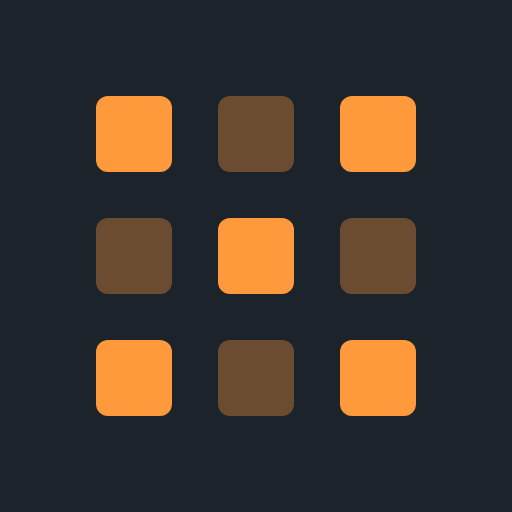
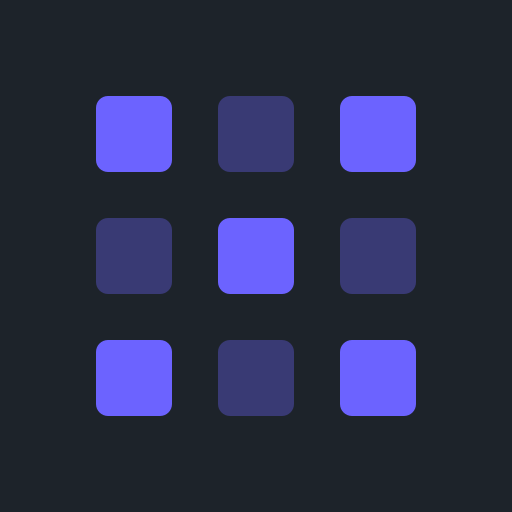
Add files via upload

diff --git a/index.html b/index.html
@@ -1,4 +1,38 @@
-<!doctype html><html lang="en"><head><meta charset="utf-8"><meta name="viewport" content="width=device-width,initial-scale=1"></head><body>
+<!doctype html>
+<html lang="en">
+<head>
+<meta charset="utf-8">
+<meta name="viewport" content="width=device-width,initial-scale=1">
+<title>thebeatsynth</title>
+<meta name="description" content="Make beats in your browser. Multiple channels, custom time signatures, imported audio and pre-loaded drum/piano sounds. Pads, piano roll, mixer, export.">
+<meta name="theme-color" content="#1d232a">
+
+<link rel="icon" href="icon.svg" type="image/svg+xml">
+<link rel="icon" href="icon-192.png" type="image/png" sizes="192x192">
+<link rel="apple-touch-icon" href="icon-180.png">
+<link rel="manifest" href="manifest.webmanifest">
+<meta name="apple-mobile-web-app-capable" content="yes">
+<meta name="apple-mobile-web-app-status-bar-style" content="black-translucent">
+<meta name="apple-mobile-web-app-title" content="thebeatsynth">
+
+<meta property="og:type" content="website">
+<meta property="og:site_name" content="thebeatsynth">
+<meta property="og:title" content="thebeatsynth — make beats in your browser">
+<meta property="og:description" content="Multiple channels, custom time signatures, imported audio and pre-loaded drum/piano sounds. Pads, piano roll, mixer, export.">
+<meta property="og:url" content="https://thebeatsynth.com/">
+<meta property="og:image" content="https://thebeatsynth.com/og.png">
+<meta property="og:image:width" content="1200">
+<meta property="og:image:height" content="630">
+
+<meta name="twitter:card" content="summary_large_image">
+<meta name="twitter:title" content="thebeatsynth — make beats in your browser">
+<meta name="twitter:description" content="Multiple channels, custom time signatures, imported audio and pre-loaded drum/piano sounds. Pads, piano roll, mixer, export.">
+<meta name="twitter:image" content="https://thebeatsynth.com/og.png">
+
+<script>window.va = window.va || function () { (window.vaq = window.vaq || []).push(arguments); };</script>
+<script defer src="/_vercel/insights/script.js"></script>
+</head>
+<body>
 <title>thebeatsynth</title>
 <meta name="claude:viewport-fit-sides" content="cover">
 <style>@font-face{font-family:'JetBrains Mono';font-style:normal;font-weight:500;font-display:swap;src:url(fonts/jetbrains-mono-latin-500-normal.woff2) format('woff2')}@font-face{font-family:'JetBrains Mono';font-style:normal;font-weight:700;font-display:swap;src:url(fonts/jetbrains-mono-latin-700-normal.woff2) format('woff2')}@font-face{font-family:'Rajdhani';font-style:normal;font-weight:500;font-display:swap;src:url(fonts/rajdhani-latin-500-normal.woff2) format('woff2')}@font-face{font-family:'Rajdhani';font-style:normal;font-weight:600;font-display:swap;src:url(fonts/rajdhani-latin-600-normal.woff2) format('woff2')}@font-face{font-family:'Rajdhani';font-style:normal;font-weight:700;font-display:swap;src:url(fonts/rajdhani-latin-700-normal.woff2) format('woff2')}</style>
@@ -304,7 +338,7 @@ html.native .topbar::-webkit-scrollbar{display:none}
 .gkeys kbd{font:600 12px var(--f-mono);background:var(--inset);border:1px solid var(--line);border-radius:4px;padding:2px 6px}
 @media (max-width:700px){.editbar .lbl,.patbar>.lbl{display:none}.guide-body{grid-template-columns:1fr;grid-template-rows:auto 1fr;height:80vh}.guide-nav{flex-direction:row;overflow-x:auto;border-right:0;border-bottom:1px solid var(--line)}.guide-nav button{flex:none}.guide-nav small{display:none}.guide-nav button{padding:6px 10px}.guide-pane{padding:14px}}
 .spot{outline:2px solid var(--accent)!important;outline-offset:3px;animation:spotp 1.1s ease-in-out 4}
-@keyframes spotp{50%{box-shadow:0 0 0 7px rgba(255,154,60,.35)}}
+@keyframes spotp{50%{box-shadow:0 0 0 7px rgba(108,99,255,.35)}}
 #coach{position:fixed;z-index:95;width:min(300px,calc(100vw - 16px));background:var(--panel2);border:1px solid var(--accent);border-radius:8px;padding:10px 12px;box-shadow:0 12px 34px rgba(0,0,0,.55)}
 #coach p{margin:0 0 8px;font-size:14px}#coach div{display:flex;gap:6px}
 @media (prefers-reduced-motion:reduce){.spot{animation:none}}
@@ -427,7 +461,7 @@ html.native .topbar::-webkit-scrollbar{display:none}
 .tl-head{position:absolute;top:0;bottom:0;width:2px;background:var(--accent);z-index:6;pointer-events:none}
 body.learn input[type=range]{outline:2px dashed var(--accent);outline-offset:3px}
 body.learn input[type=range].learning{outline-style:solid;outline-color:#fff}
-.welcome{position:fixed;inset:0;z-index:200;display:flex;align-items:center;justify-content:center;padding:16px;background:radial-gradient(1100px 620px at 50% -10%,rgba(255,154,60,.18),transparent 62%),rgba(9,12,15,.95);overflow:auto}
+.welcome{position:fixed;inset:0;z-index:200;display:flex;align-items:center;justify-content:center;padding:16px;background:radial-gradient(1100px 620px at 50% -10%,rgba(108,99,255,.18),transparent 62%),rgba(9,12,15,.95);overflow:auto}
 .welcome[hidden]{display:none}
 .wl-card{width:100%;max-width:840px;max-height:calc(100vh - 32px);max-height:calc(100dvh - 32px);overflow:auto;background:var(--panel2);border:1px solid var(--line);border-top:4px solid var(--accent);border-radius:16px;padding:28px 30px 22px;box-shadow:0 24px 80px rgba(0,0,0,.6)}
 .wl-logo{width:56px;height:56px;border-radius:12px;display:block}
@@ -742,10 +776,11 @@ body.lite *{transition:none!important;animation:none!important}
   transition:opacity .12s, background .12s;
   display:flex; align-items:center; gap:4px;
 }
-.mb-menu-btn:hover, .mb-menu.open .mb-menu-btn {
+.mb-menu-btn:hover, .mb-menu.open .mb-menu-btn, .mb-menu-btn.sidebar-open {
   opacity:1;
   background:rgba(255,255,255,.06);
 }
+.mb-menu-btn.sidebar-open { color:var(--accent); opacity:1; }
 :root[data-theme="light"] .mb-menu-btn { color:#eaecf0; }
 :root[data-theme="light"] .mb-menu-btn:hover,
 :root[data-theme="light"] .mb-menu.open .mb-menu-btn { background:rgba(255,255,255,.1); }
@@ -799,7 +834,7 @@ body.lite *{transition:none!important;animation:none!important}
   font:700 13px 'Rajdhani',sans-serif; cursor:pointer;
 }
 .mb-dd-split:hover { color:var(--fg); border-color:var(--dim); }
-.mb-dd-split[aria-pressed="true"] { color:var(--accent); border-color:var(--accent); background:rgba(255,154,60,.12); }
+.mb-dd-split[aria-pressed="true"] { color:var(--accent); border-color:var(--accent); background:rgba(108,99,255,.12); }
 .mb-view-pill.split { color:var(--accent); }
 .mb-dropdown-item .shortcut {
   margin-left:auto;
@@ -1377,9 +1412,27 @@ body { padding-top:calc(var(--menubar-h) + 2px) !important; }
 .app.lib-open .mixer,
 .app.lib-open .tlv,
 .app.lib-open .padsv,
-.app.lib-open .sessv {
+.app.lib-open .sessv,
+.app.lib-open .patbar,
+.app.lib-open .kbd {
   margin-right:280px;
   transition:margin-right .22s cubic-bezier(.4,0,.2,1);
+}
+
+/* Shift app when the left tools sidebar is open - mirrors lib-open above,
+   so Tools behaves exactly like the Library/Effects panel: it shrinks the
+   rack in from the side instead of overlaying/blocking it, and stays open
+   (no backdrop to click through) until explicitly closed. */
+.app.tools-open .rack-scroll,
+.app.tools-open #scroll,
+.app.tools-open .mixer,
+.app.tools-open .tlv,
+.app.tools-open .padsv,
+.app.tools-open .sessv,
+.app.tools-open .patbar,
+.app.tools-open .kbd {
+  margin-left:300px;
+  transition:margin-left .22s cubic-bezier(.4,0,.2,1);
 }
 
 /* ── Audio edit panel ── */
@@ -1871,21 +1924,17 @@ header.transport {
 
 <!-- ── MENU BAR HTML ── -->
 <div id="daw-menubar">
-  <!-- Hamburger — opens left sidebar -->
-  <button class="mb-ham-btn" id="mbHamBtn" title="Show tools & patterns">
-    <svg viewBox="0 0 20 20" fill="none" stroke="currentColor" stroke-width="1.8" stroke-linecap="round">
-      <line x1="3" y1="5" x2="17" y2="5"/>
-      <line x1="3" y1="10" x2="17" y2="10"/>
-      <line x1="3" y1="15" x2="17" y2="15"/>
-    </svg>
-  </button>
-
   <div class="mb-logo" title="thebeatsynth">
-    <svg viewBox="0 0 20 20" fill="none">
-      <rect x="2" y="13" width="3" height="5" rx="1" fill="#6c63ff"/>
-      <rect x="6" y="9" width="3" height="9" rx="1" fill="#6c63ff" opacity=".85"/>
-      <rect x="10" y="5" width="3" height="13" rx="1" fill="#6c63ff" opacity=".7"/>
-      <rect x="14" y="2" width="3" height="16" rx="1" fill="#6c63ff" opacity=".55"/>
+    <svg viewBox="0 0 20 20" fill="#6c63ff">
+      <rect x="2" y="2" width="4.4" height="4.4" rx=".7"/>
+      <rect x="7.8" y="2" width="4.4" height="4.4" rx=".7" opacity=".35"/>
+      <rect x="13.6" y="2" width="4.4" height="4.4" rx=".7"/>
+      <rect x="2" y="7.8" width="4.4" height="4.4" rx=".7" opacity=".35"/>
+      <rect x="7.8" y="7.8" width="4.4" height="4.4" rx=".7"/>
+      <rect x="13.6" y="7.8" width="4.4" height="4.4" rx=".7" opacity=".35"/>
+      <rect x="2" y="13.6" width="4.4" height="4.4" rx=".7"/>
+      <rect x="7.8" y="13.6" width="4.4" height="4.4" rx=".7" opacity=".35"/>
+      <rect x="13.6" y="13.6" width="4.4" height="4.4" rx=".7"/>
     </svg>
   </div>
 
@@ -1948,6 +1997,13 @@ header.transport {
       </button>
     </div>
   </div>
+
+  <!-- Tools — opens the left sidebar (Edit/Compose/Play tools + patterns).
+       Not a dropdown: it directly toggles the sidebar, same as the old
+       hamburger icon did. #mbHamBtn kept as the id so the existing
+       initLeftSidebar() wiring (hamBtn.click handler, .sidebar-open class)
+       needs no change. -->
+  <button class="mb-menu-btn" id="mbHamBtn" title="Show tools & patterns">Tools</button>
 
   <!-- Settings menu -->
   <div class="mb-menu" id="mbSettingsMenu">
@@ -3116,20 +3172,26 @@ header.transport {
     }
 
     // ── Open / close ──
+    // No blocking backdrop here on purpose: like the Library/Effects panel,
+    // this docks beside the rack (shrinking it in via .tools-open's
+    // margin-left) rather than covering it, so you can keep adjusting the
+    // rack with the panel open. It only closes when you explicitly close
+    // it - the hamburger button, the X, or Escape - never by clicking
+    // elsewhere on the page.
+    const appEl = document.querySelector('.app');
     function openSidebar() {
       sidebar.classList.add('open');
-      overlay.classList.add('show');
+      if (appEl) appEl.classList.add('tools-open');
       hamBtn && hamBtn.classList.add('sidebar-open');
     }
     function closeSidebar() {
       sidebar.classList.remove('open');
-      overlay.classList.remove('show');
+      if (appEl) appEl.classList.remove('tools-open');
       hamBtn && hamBtn.classList.remove('sidebar-open');
     }
     hamBtn   && hamBtn.addEventListener('click', () => sidebar.classList.contains('open') ? closeSidebar() : openSidebar());
     closeBtn && closeBtn.addEventListener('click', closeSidebar);
-    overlay  && overlay.addEventListener('click', closeSidebar);
-    document.addEventListener('keydown', e => { if (e.key === 'Escape') closeSidebar(); });
+    document.addEventListener('keydown', e => { if (e.key === 'Escape' && sidebar.classList.contains('open')) closeSidebar(); });
 
     // ── Tab switching ──
     // Tabs: edit / compose / play → drive real #toolSeg
@@ -3462,7 +3524,7 @@ header.transport {
     </div>
   </div>
 
-  <section class="kbd" id="kbd" hidden aria-label="On-screen piano"><div class="kbd-bar"><span class="lbl">Play with</span><select id="kbdInst" class="btn sm" aria-label="Instrument for the piano and keyboard"></select><select id="kbdPreset" class="btn sm" hidden aria-label="Custom synth preset"></select><span class="sep"></span><span class="kg"><span class="lbl">Chord</span><select id="kbdChord" class="btn sm" aria-label="Chord mode"><option value="off">Off</option><option value="maj">Major</option><option value="min">Minor</option><option value="dom7">Dominant 7th</option><option value="maj7">Major 7th</option><option value="min7">Minor 7th</option><option value="sus2">Sus 2</option><option value="sus4">Sus 4</option><option value="pow">Power (5th)</option><option value="dim">Diminished</option><option value="aug">Augmented</option><option value="add9">Add 9</option></select></span><span class="sep"></span><span class="kg"><span class="lbl">Arp</span><select id="kbdArp" class="btn sm" aria-label="Arpeggiator mode"><option value="off">Off</option><option value="up">Up</option><option value="down">Down</option><option value="ud">Up and down</option><option value="rnd">Random</option></select><select id="kbdRate" class="btn sm" aria-label="Arpeggiator rate"><option value="1">1/4</option><option value="0.5">1/8</option><option value="0.25" selected>1/16</option><option value="0.125">1/32</option></select><label class="chk" title="Keep the arpeggio going after you let go. Pressing a new key replaces it."><input type="checkbox" id="kbdLatch"> Latch</label></span><button class="btn sm" id="kbdCloseBtn" title="Close piano" style="margin-left:auto;font-size:16px;line-height:1;padding:0 8px;min-width:28px;color:var(--dim)">×</button></div><div class="kbd-keys" id="kbdKeys"></div></section>
+  <section class="kbd" id="kbd" hidden aria-label="On-screen piano"><div class="kbd-bar"><span class="lbl">Play with</span><select id="kbdInst" class="btn sm" aria-label="Instrument for the piano and keyboard"></select><select id="kbdPreset" class="btn sm" hidden aria-label="Custom synth preset"></select><span class="sep"></span><span class="kg"><span class="lbl">Key</span><select id="kbdKeyRoot" class="btn sm" aria-label="Key" title="Key"><option value="0">C</option><option value="1">C#</option><option value="2">D</option><option value="3">D#</option><option value="4">E</option><option value="5">F</option><option value="6">F#</option><option value="7">G</option><option value="8">G#</option><option value="9">A</option><option value="10">A#</option><option value="11">B</option></select><select id="kbdKeyScale" class="btn sm" aria-label="Scale" title="Scale"><option value="minp">Minor pentatonic</option><option value="majp">Major pentatonic</option><option value="min">Natural minor</option><option value="maj">Major</option><option value="dor">Dorian</option><option value="mix">Mixolydian</option><option value="phr">Phrygian</option><option value="har">Harmonic minor</option><option value="blues">Blues</option><option value="chr">Chromatic (no scale)</option></select></span><span class="sep"></span><span class="kg"><span class="lbl">Chord</span><select id="kbdChord" class="btn sm" aria-label="Chord mode"><option value="off">Off</option><option value="maj">Major</option><option value="min">Minor</option><option value="dom7">Dominant 7th</option><option value="maj7">Major 7th</option><option value="min7">Minor 7th</option><option value="sus2">Sus 2</option><option value="sus4">Sus 4</option><option value="pow">Power (5th)</option><option value="dim">Diminished</option><option value="aug">Augmented</option><option value="add9">Add 9</option></select></span><span class="sep"></span><span class="kg"><span class="lbl">Arp</span><select id="kbdArp" class="btn sm" aria-label="Arpeggiator mode"><option value="off">Off</option><option value="up">Up</option><option value="down">Down</option><option value="ud">Up and down</option><option value="rnd">Random</option></select><select id="kbdRate" class="btn sm" aria-label="Arpeggiator rate"><option value="1">1/4</option><option value="0.5">1/8</option><option value="0.25" selected>1/16</option><option value="0.125">1/32</option></select><label class="chk" title="Keep the arpeggio going after you let go. Pressing a new key replaces it."><input type="checkbox" id="kbdLatch"> Latch</label></span><button class="btn sm" id="kbdCloseBtn" title="Close piano" style="margin-left:auto;font-size:16px;line-height:1;padding:0 8px;min-width:28px;color:var(--dim)">×</button></div><div class="kbd-keys" id="kbdKeys"></div></section>
 
   <div class="patbar">
     <button class="btn sm toggle etbtn" id="etBtn" aria-pressed="false" aria-controls="editbarBox" title="Show or hide the editing tools: copy, random, rhythm, variation, automation and more">Edit tools ▾</button>
@@ -6162,11 +6224,13 @@ function snapNote(m){if(!S.lock||inScale(m))return m;for(let d=1;d<=6;d++){if(in
 $('#etBtn').onclick=e=>{const on=!$('.app').classList.contains('et-open');$('.app').classList.toggle('et-open',on);e.currentTarget.setAttribute('aria-pressed',on);};
 window.__bs={get alN(){return alNodes.length},alZoomTo,alView,get alZoom(){return alZoom},alRemoveAll,alEdSlice,alEdDelete,alEdCopy,alEdPaste,alEdMove,setAlSel(a,b,c){alSelR=a==null?null:{a,b};alCursor=c==null?null:c;alOverlay();},alSplit,alDup,alDel,alSnap,loadProject,warpMarkers,wkPoints,freezeChannel,unfreezeChannel,audioToNotes,audioToDrums,macroApply,macroRender,grooveFromLoop,grooveDef,openLaunchSet,followAction,captureMidi,get capBuf(){return capBuf},takeSave,takeSwap,takeDel,secGroups,secLabel,secMove,secDuplicate,normalizeLufs,measureLufs,loadKit,onMidi,recUndoTake,get recLog(){return recLog},get mset(){return mset},set msetV(v){mset=cleanSet(v);},mmApplyTpl,get midiMap(){return midiMap},get btnMap(){return btnMap},flToggle,coffeeNudge,get held(){return held},get snapshot(){return snapshot},get cleanMi(){return cleanMi},setMidiOut:o=>{midiOut=o;},setClk:m=>{clkMode=m;},addChannel,render,renderMixer,get shareCard(){return shareCard},get audTakes(){return audTakes},get audStartFn(){return audStart},get audStopNow(){return audStopNow},get planList(){return planList},get renderPlan(){return renderPlan},get clipDur(){return clipDur},get planFromUI(){return planFromUI},get encodeWav(){return encodeWav},parseProg,degTones,chordEvents,bassNotes,writeBass,writeProgression,get SOUNDS(){return SOUNDS},yinPitch,pitchTrack,framesToNotes,notesToSteps,detectKey,chordTones,chordLabel,importMidi,parseMidi,readZip,clipAuto,detectBpm,findHits,stretchBuf,measureLufs,normalizeLufs,renderOne,get PACKS(){return PACKS},get S(){return S},inScale,snapNote,midi:(a,ts)=>onMidi({data:a,timeStamp:ts}),padHit,renderPlan,foldLoop,planList,encodeMp3,PRESETS:()=>PRESETS,setView,get playing(){return playing},activeCh,applyFxPreset,toast,get FACTORY_FX(){return FACTORY_FX}};
 function scaleChanged(){if(!$('#kbd').hidden)buildKbd();if(rollCh)drawRoll();if(typeof drawChordStrip==='function'&&document.querySelector('#chStrip'))drawChordStrip();}
-$('#keyRoot').onchange=e=>{S.key=+e.target.value;scaleChanged();markDirty();};
-$('#keyScale').onchange=e=>{S.scale=e.target.value;scaleChanged();markDirty();};
+$('#keyRoot').onchange=e=>{S.key=+e.target.value;scaleChanged();markDirty();syncKey();};
+$('#keyScale').onchange=e=>{S.scale=e.target.value;scaleChanged();markDirty();syncKey();};
+$('#kbdKeyRoot').onchange=e=>{S.key=+e.target.value;scaleChanged();markDirty();syncKey();};
+$('#kbdKeyScale').onchange=e=>{S.scale=e.target.value;scaleChanged();markDirty();syncKey();};
 $('#kScaleBtn').onclick=e=>{kScale=!kScale;e.currentTarget.setAttribute('aria-pressed',kScale);try{localStorage.setItem('beatsynth.kscale',kScale?'1':'0');}catch(err){}scaleChanged();toast(kScale?'Keys A to ; now follow your key and scale.':'Keys A to ; are a normal piano layout.');};
 $('#lockBtn').onclick=e=>{S.lock=!S.lock;e.currentTarget.setAttribute('aria-pressed',S.lock);scaleChanged();markDirty();};
-function syncKey(){if(typeof drawChordStrip==='function')try{drawChordStrip();}catch(e){}$('#keyRoot').value=String(S.key);$('#keyScale').value=S.scale;$('#lockBtn').setAttribute('aria-pressed',S.lock);}
+function syncKey(){if(typeof drawChordStrip==='function')try{drawChordStrip();}catch(e){}$('#keyRoot').value=String(S.key);$('#keyScale').value=S.scale;$('#lockBtn').setAttribute('aria-pressed',S.lock);const kr=$('#kbdKeyRoot'),ks=$('#kbdKeyScale');if(kr)kr.value=String(S.key);if(ks)ks.value=S.scale;}
 function doRandom(){
   const ch=activeCh();if(!ch)return;const [a,b]=selRange(ch),dens=+$('#rndDens').value/100;
   const bias=i=>i%spb()===0?1.35:(i%2===1?.6:.95);
@@ -7103,7 +7167,7 @@ $('#kbdLatch').onchange=e=>{arpLatch=e.target.checked;if(!arpLatch){[...arpNotes
 function closePiano(){$('#kbd').hidden=true;const pb=$('#pianoBtn');if(pb){pb.setAttribute('aria-pressed','false');pb.textContent='Piano ▾';}}
 $('#pianoBtn').onclick=e=>{
   const h=$('#kbd').hidden=!$('#kbd').hidden;e.currentTarget.setAttribute('aria-pressed',!h);e.currentTarget.textContent=h?'Piano ▾':'Piano ▴';
-  if(!h)buildKbd();
+  if(!h){buildKbd();syncKey();}
 };
 $('#kbdCloseBtn').onclick=()=>closePiano();
 (()=>{
@@ -8525,10 +8589,10 @@ const GUIDE=(()=>{
   const T=[
    {id:'start',t:'Start here',sub:'Your first minute',intro:'thebeatsynth is a step sequencer. You build a beat from channels, each one a sound, and turn steps on to decide when it plays.',
     steps:['Press the orange Play button, or Space, to hear the starter beat.','Click squares in the Channel Rack to turn steps on or off. It changes while it plays.','Press + Add channel (bottom) to add another sound.','Your beat saves itself in this browser. Use File, then Save, to keep a copy as a file.','New here? You are in Simple view, which shows only the essentials. Press All tools (top left) any time to see the timeline, Perform, composing tools and more.'],
-    acts:[{l:'Play the starter beat',run:()=>{closeGuide();$('#play').click();}},show('#play','Play and stop. Space does the same.'),show('.seg.lay','Simple shows the essentials. All tools shows everything.',null,'Show Simple / All tools'),{l:'Play the welcome message again',run:()=>{closeGuide();$('#tourBtn').click();}}]},
+    acts:[{l:'Play the starter beat',run:()=>{closeGuide();$('#mbPlayBtn').click();}},show('#mbPlayBtn','Play and stop. Space does the same.'),{l:'Play the welcome message again',run:()=>{closeGuide();$('#tourBtn').click();}}]},
    {id:'layout',t:'Finding your way around',sub:'Where everything lives',intro:'Everything is on one screen, grouped by job.',
-    steps:['The top bar has Play and Stop, tempo and Tap, time signature and bars, and the File, Export, Browser, Tools and Rack menus.','Under it: Swing, Master and Level, Steps and Random, then Rhythm, Variation, Transitions, Mutate and Automation.','The Channel Rack is the grid. Each row has its volume, pan and pitch, an FX button and a piano roll for instrument channels.','The File menu holds New, Open, Save, ZIP, Version history and the Library. The Export menu holds loudness, format, Render, Stems, Video and MIDI.','Ctrl+K opens the command palette: type what you want to do and press Enter. Settings has Keyboard shortcuts, so you can change any key.','Settings also has Compact view, which makes everything about 90% size. Panels such as the mixer, effects and piano roll can float in their own windows with the ⧉ button.'],
-    acts:[show('#fileDd .dd-btn','New, Open, Save, ZIP, Version history and the Library.',null,'Show the File menu'),show('#expDd .dd-btn','Render, Stems, Video and MIDI.',null,'Show the Export menu')]},
+    steps:['The top menu bar has File, Edit, View, Import, Settings and Help, the view pills (Rack, Mixer, Pads, Session, Timeline), tempo and time signature, Play and Stop, and the Library and Export buttons.','Press Tools, between Edit and Settings, for Swing, Master and Level, Steps and Random, then Rhythm, Variation, Transitions, Mutate and Automation.','The Channel Rack is the grid. Each row has its volume, pan and pitch, an FX button and a piano roll for instrument channels.','The File menu holds New, Open, Save, ZIP, Version history and the Library. The Export menu holds loudness, format, Render, Stems, Video and MIDI.','Ctrl+K opens the command palette: type what you want to do and press Enter. Settings has Keyboard shortcuts, so you can change any key.','Settings also has Compact view, which makes everything about 90% size. Panels such as the mixer, effects and piano roll can float in their own windows with the ⧉ button.'],
+    acts:[show('#mbFileMenu .mb-menu-btn','New, Open, Save, ZIP, Version history and the Library.',null,'Show the File menu'),show('.mb-export-btn','Render, Stems, Video and MIDI are here and in the File menu.',null,'Show Export')]},
    {id:'make',t:'Make me a beat',sub:'Pick a mood, get a starter',intro:'Not sure where to begin? Choose a mood and the app writes a whole starter for you: drums, chords, a bass line and a melody, in a key that fits.',
     steps:['Press Make me a beat (in Start from, at the bottom).','Pick a mood: Chill, Dark, Hype, Dreamy, Sad, Happy, Groovy, Night drive, Romantic, Summer, Epic, Aggressive, Club, Retro, Mystery or Focus. Each one chooses its own drum style, key, tempo, chords, bass and melody sound.','Choose a loop length of 1, 2 or 4 bars. Turn the melody off if you only want the backing. Tick Build a full song too to get an intro, verse, build, drop and outro.','Press Make it, or Surprise me to let the app choose the mood. Then press Play.','Not quite right? Press Make me a beat again. Every try is different. Your previous beat is saved in the Library first, so nothing is lost.','Want a different take? Press Remix this on the main page. Vary keeps your key and changes the drums and notes a little (or a lot). Swap drums keeps the key and changes the drum style. Your original pattern is never touched.','The Surprise me button on the main page picks a mood and plays it at once.','Everything it writes is normal channels and notes. Open any piano roll to change the melody, or swap a sound with the channel menu.'],
     acts:[{l:'Open Make me a beat',run:()=>{closeGuide();$('#mmbBtn').click();}},show('#mmbBtn','Make me a beat: pick a mood and get a full starter.',tools,'Show me where')]},
@@ -10391,20 +10455,19 @@ window.__acts={ACTS,kbOf,openPalette};
   // welcome
   const W=$('#welcome'),wlSeen=()=>{try{return !!localStorage.getItem('beatsynth.tour');}catch(e){return false;}};
   let wStep=0,wMood='chill',wPrev=null;
-  const LOGO='<svg class="wl-logo" viewBox="0 0 512 512" aria-hidden="true"><rect width="512" height="512" fill="#1d232a"/><g fill="#ff9a3c"><rect x="96" y="96" width="76" height="76" rx="12"/><rect x="218" y="96" width="76" height="76" rx="12" opacity=".35"/><rect x="340" y="96" width="76" height="76" rx="12"/><rect x="96" y="218" width="76" height="76" rx="12" opacity=".35"/><rect x="218" y="218" width="76" height="76" rx="12"/><rect x="340" y="218" width="76" height="76" rx="12" opacity=".35"/><rect x="96" y="340" width="76" height="76" rx="12"/><rect x="218" y="340" width="76" height="76" rx="12" opacity=".35"/><rect x="340" y="340" width="76" height="76" rx="12"/></g></svg>';
+  const LOGO='<svg class="wl-logo" viewBox="0 0 512 512" aria-hidden="true"><rect width="512" height="512" fill="#1d232a"/><g fill="#6c63ff"><rect x="96" y="96" width="76" height="76" rx="12"/><rect x="218" y="96" width="76" height="76" rx="12" opacity=".35"/><rect x="340" y="96" width="76" height="76" rx="12"/><rect x="96" y="218" width="76" height="76" rx="12" opacity=".35"/><rect x="218" y="218" width="76" height="76" rx="12"/><rect x="340" y="218" width="76" height="76" rx="12" opacity=".35"/><rect x="96" y="340" width="76" height="76" rx="12"/><rect x="218" y="340" width="76" height="76" rx="12" opacity=".35"/><rect x="340" y="340" width="76" height="76" rx="12"/></g></svg>';
   const FEATS=[['Draw beats','Click squares in the Channel Rack to place drums and sounds. It changes while it plays.',COLORS[0]],
     ['Play notes','A piano roll, chord, bass and melody writers, and keyboard keys that stay in your key.',COLORS[2]],
     ['Shape the sound','Mixer, effects, and a one-click Polish that makes the whole mix sound finished.',COLORS[4]],
     ['Build and share','Patterns, songs and a live Perform mode. Export WAV, MP3 or MIDI, or share a link.',COLORS[3]]];
   const phone=()=>matchMedia('(max-width:700px)').matches;
-  const openTools=()=>{};
-  const ROWS=[['Play and tempo','Play starts and stops the music (Space does the same). Next to it you set the tempo, or press Tap in time with a song.','#play','Play and stop. Space does the same.'],
+  const ROWS=[['Play and tempo','Play starts and stops the music (Space does the same). Tempo and time signature are right next to it in the top menu bar.','#mbPlayBtn','Play and stop. Space does the same.'],
     ['The Channel Rack','Each row is one sound. Click the squares to place hits, and drag a lit square up or down to change how hard it hits.','.rack-scroll','This is the Channel Rack. Click squares to draw a beat.'],
-    ['Views','Switch between the Rack, a Mixer and drum Pads. The song Timeline and Perform for live sets appear in All tools.','#viewBtn','View: Rack, Mixer and Pads. Press + beside a second view to show two at once.'],
-    ['Simple or All tools','You start with just the essentials. Press All tools when you want more: the Timeline, Perform, chord and melody writers, recording, time signatures and more. Your choice is remembered.','.seg.lay','Simple shows the essentials. All tools shows everything.'],
-    ['Get sounds and starters','Make me a beat, Library, Import audio and Real instruments are along the bottom of the page.','#mmbBtn','Make me a beat writes a whole starter for you. The Library and imports are beside it.',openTools],
-    ['Save and export','Export renders your beat to WAV or MP3. The File menu has New, Open, Save and the Library, where your beats are remembered.','#expDd .dd-btn','Export renders your beat to WAV or MP3. File saves and opens projects.'],
-    ['The Guide','Your help window. Every topic has Show me buttons that point at the real controls. You can replay this welcome from there any time.','#guideBtn','The Guide explains every feature, step by step.']];
+    ['Views','Switch between Rack, Mixer, Pads, Session and Timeline here. Open View ▾ in the menu bar for Perform, and to show two views side by side.','#mbViewPills','Views: Rack, Mixer, Pads, Session and Timeline.'],
+    ['Tools and patterns','Press Tools to open editing, composing and playing tools beside the rack. It stays open while you work, and the pattern list, bars and undo/redo live in the bar just below.','#mbHamBtn','Tools: edit, compose and play controls, plus your patterns.'],
+    ['Get sounds and starters','Make me a beat, Library, Import audio and Real instruments are along the bottom of the page.','#mmbBtn','Make me a beat writes a whole starter for you. The Library and imports are beside it.'],
+    ['Save and export','Export renders your beat to WAV or MP3. The File menu has New, Open, Save and the Library, where your beats are remembered.','.mb-export-btn','Export renders your beat to WAV or MP3.'],
+    ['The Guide','Your help window, under Help in the menu bar. Every topic has Show me buttons that point at the real controls. You can replay this welcome from there any time.','#mbHelpMenu .mb-menu-btn','The Guide is under Help. It explains every feature, step by step.']];
   function wlEnd(){W.hidden=true;try{localStorage.setItem('beatsynth.tour','1');}catch(e){}if(wPrev&&wPrev.focus){try{wPrev.focus();}catch(e){}}wPrev=null;}
   function wlOpen(from){wPrev=document.activeElement;wStep=from||0;wlDraw();W.hidden=false;}
   function wlDraw(){

diff --git a/sw.js b/sw.js
@@ -1,4 +1,4 @@
-const V='beats-1793674417',CORE=['./','index.html','manifest.webmanifest','icon.svg','icon-180.png','icon-192.png','icon-512.png','lame.min.js','fonts/jetbrains-mono-latin-500-normal.woff2','fonts/jetbrains-mono-latin-700-normal.woff2','fonts/rajdhani-latin-500-normal.woff2','fonts/rajdhani-latin-600-normal.woff2','fonts/rajdhani-latin-700-normal.woff2'];
+const V='beats-1793677515',CORE=['./','index.html','manifest.webmanifest','icon.svg','icon-180.png','icon-192.png','icon-512.png','lame.min.js','fonts/jetbrains-mono-latin-500-normal.woff2','fonts/jetbrains-mono-latin-700-normal.woff2','fonts/rajdhani-latin-500-normal.woff2','fonts/rajdhani-latin-600-normal.woff2','fonts/rajdhani-latin-700-normal.woff2'];
 self.addEventListener('install',e=>{e.waitUntil(caches.open(V).then(c=>c.addAll(CORE)).then(()=>self.skipWaiting()));});
 self.addEventListener('activate',e=>{e.waitUntil(caches.keys().then(k=>Promise.all(k.filter(x=>x!==V).map(x=>caches.delete(x)))).then(()=>self.clients.claim()));});
 self.addEventListener('fetch',e=>{
